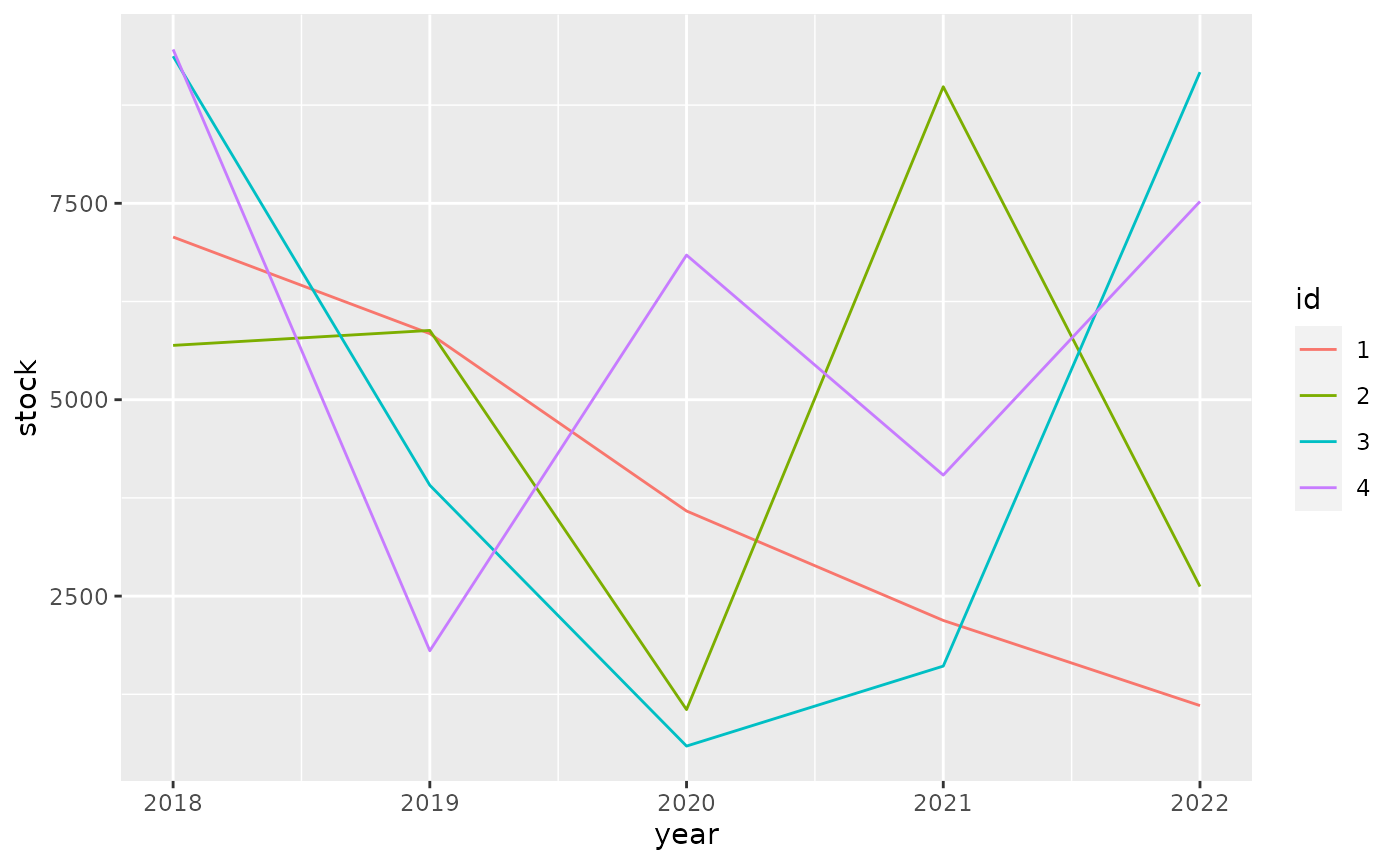
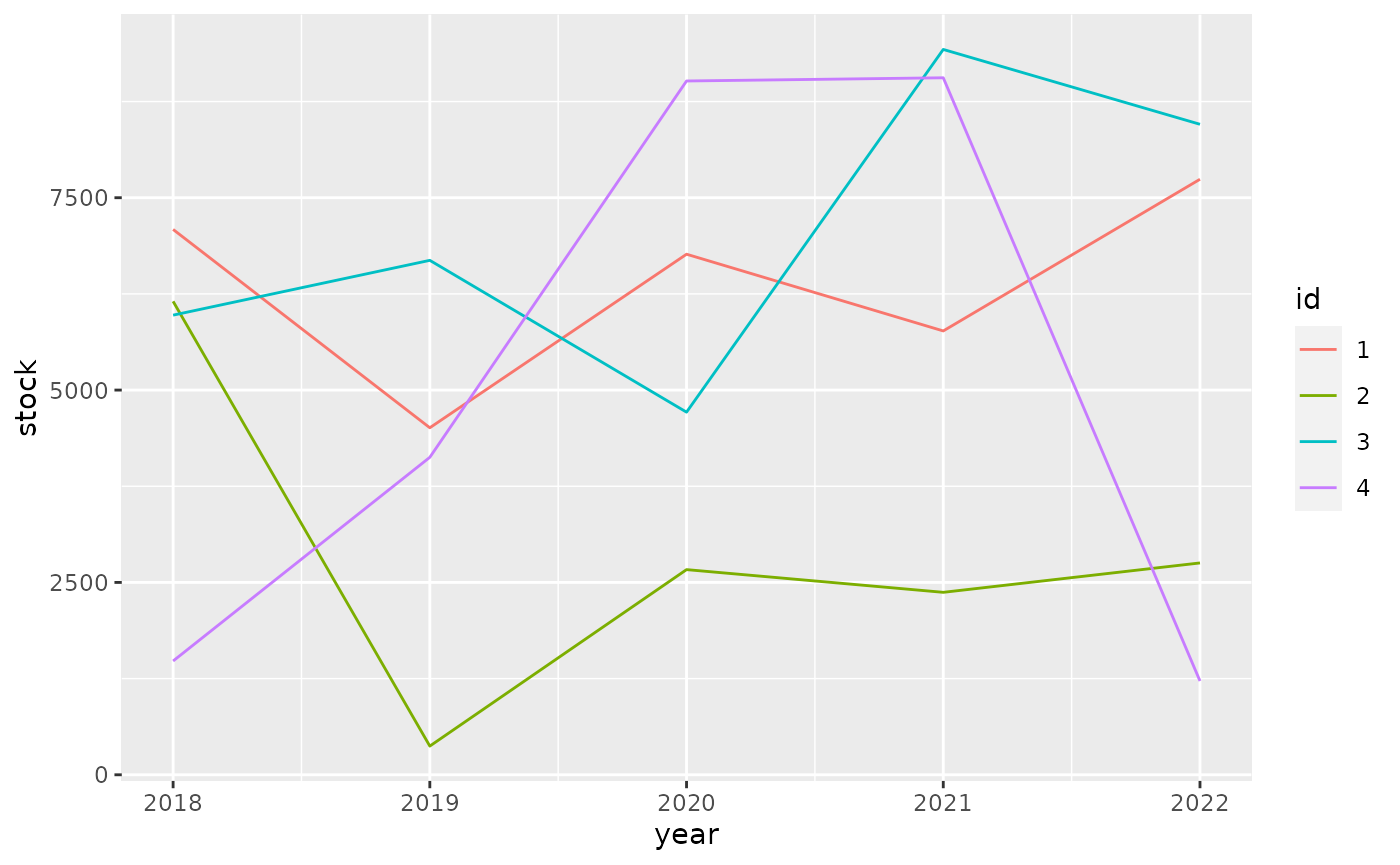
Built site for tibble: 3.1.4@9577fc3

diff --git a/articles/formats.html b/articles/formats.html
@@ -226,10 +226,10 @@
 <span class="co">#&gt; # A tibble: 4 × 6</span>
 <span class="co">#&gt;   id       `2018`    `2019`    `2020`    `2021`    `2022`</span>
 <span class="co">#&gt;   &lt;fct&gt; &lt;dbl:fmt&gt; &lt;dbl:fmt&gt; &lt;dbl:fmt&gt; &lt;dbl:fmt&gt; &lt;dbl:fmt&gt;</span>
-<span class="co">#&gt; 1 1     $7,070.64 $5,841.09 $3,583.34 $2,190.38 $1,106.42</span>
-<span class="co">#&gt; 2 2     $5,691.45 $5,881.78 $1,055.26 $8,983.85 $2,621.45</span>
-<span class="co">#&gt; 3 3     $9,372.90 $3,911.29   $590.95 $1,608.98 $9,169.50</span>
-<span class="co">#&gt; 4 4     $9,458.48 $1,804.02 $6,840.88 $4,040.30 $7,523.51</span></code></pre></div>
+<span class="co">#&gt; 1 1     $7,087.87 $4,510.25 $6,765.71 $5,768.52 $7,739.94</span>
+<span class="co">#&gt; 2 2     $6,153.25   $373.07 $2,666.55 $2,371.38 $2,753.35</span>
+<span class="co">#&gt; 3 3     $5,973.70 $6,686.07 $4,713.03 $9,427.07 $8,454.38</span>
+<span class="co">#&gt; 4 4     $1,478.82 $4,126.36 $9,017.10 $9,058.78 $1,218.67</span></code></pre></div>
 <p>For ggplot2 we need to do <a href="https://github.com/tidyverse/ggplot2/pull/4065" class="external-link">some work</a> to show apply the formatting to the scales.</p>
 <div class="sourceCode" id="cb6"><pre class="downlit sourceCode r">
 <code class="sourceCode R"><span class="kw"><a href="https://rdrr.io/r/base/library.html" class="external-link">library</a></span><span class="op">(</span><span class="va"><a href="https://ggplot2.tidyverse.org" class="external-link">ggplot2</a></span><span class="op">)</span>
@@ -240,10 +240,10 @@
   <span class="fu"><a href="https://ggplot2.tidyverse.org/reference/geom_path.html" class="external-link">geom_line</a></span><span class="op">(</span><span class="op">)</span></code></pre></div>
 <p><img src="formats_files/figure-html/unnamed-chunk-7-1.png" width="700"></p>
 <p>It pays off to specify formatting very early in the process. The diagram below shows the principal stages of data analysis and exploration from “R for data science”.</p>
-<div id="htmlwidget-ab4c1eec27f8ac23197e" style="width:700px;height:432.632880098888px;" class="DiagrammeR html-widget"></div>
-<script type="application/json" data-for="htmlwidget-ab4c1eec27f8ac23197e">{"x":{"diagram":"graph TD\n  Import --> Tidy\n  Tidy --> Transform\n  Transform --> Visualize\n  Visualize --> Communicate\n  Visualize --> Model\n  Model -.-> Transform"},"evals":[],"jsHooks":[]}</script><p>The subsequent diagram adds data formats, communication options, and explicit data formatting. The original r4ds transitions are highlighted in bold. There are two principal options where to apply formatting for results: right before communicating them, or right after importing.</p>
-<div id="htmlwidget-b7396304ce3de2c6209d" style="width:700px;height:432.632880098888px;" class="DiagrammeR html-widget"></div>
-<script type="application/json" data-for="htmlwidget-b7396304ce3de2c6209d">{"x":{"diagram":"graph TD\n  .csv --> Import\n  API --> Import\n  DBI --> Import\n  dbplyr --> Import\n  Import -.-> Format[Format for analysis]\n  Format -.-> Tidy\n\n  subgraph r4ds\n  Import ==> Tidy\n  Tidy ==> Transform\n  Transform ==> Visualize\n  Visualize ==> Model\n  Model -.-> Transform\n  Visualize ==> Communicate\n  end\n\n  Visualize -.-> FormatComm[Format for communication]\n  FormatComm -.-> Communicate\n\n  FormatComm -- Apply formatting early --> Format\n\n  dbplyr -.-> Tidy\n  dbplyr -.-> Transform\n  dbplyr -.-> Visualize\n\n  Communicate --> gt\n  Communicate --> ggplot2\n  Communicate --> DT\n  Communicate --> plotly"},"evals":[],"jsHooks":[]}</script><p>Applying formatting early in the process gives the added benefit of showing the data in a useful format during the “Tidy”, “Transform”, and “Visualize” stages. For this to be useful, we need to ensure that the formatting options applied early:</p>
+<div id="htmlwidget-4f905058b2e2493edf56" style="width:700px;height:432.632880098888px;" class="DiagrammeR html-widget"></div>
+<script type="application/json" data-for="htmlwidget-4f905058b2e2493edf56">{"x":{"diagram":"graph TD\n  Import --> Tidy\n  Tidy --> Transform\n  Transform --> Visualize\n  Visualize --> Communicate\n  Visualize --> Model\n  Model -.-> Transform"},"evals":[],"jsHooks":[]}</script><p>The subsequent diagram adds data formats, communication options, and explicit data formatting. The original r4ds transitions are highlighted in bold. There are two principal options where to apply formatting for results: right before communicating them, or right after importing.</p>
+<div id="htmlwidget-76f9e63eba278ebcfaab" style="width:700px;height:432.632880098888px;" class="DiagrammeR html-widget"></div>
+<script type="application/json" data-for="htmlwidget-76f9e63eba278ebcfaab">{"x":{"diagram":"graph TD\n  .csv --> Import\n  API --> Import\n  DBI --> Import\n  dbplyr --> Import\n  Import -.-> Format[Format for analysis]\n  Format -.-> Tidy\n\n  subgraph r4ds\n  Import ==> Tidy\n  Tidy ==> Transform\n  Transform ==> Visualize\n  Visualize ==> Model\n  Model -.-> Transform\n  Visualize ==> Communicate\n  end\n\n  Visualize -.-> FormatComm[Format for communication]\n  FormatComm -.-> Communicate\n\n  FormatComm -- Apply formatting early --> Format\n\n  dbplyr -.-> Tidy\n  dbplyr -.-> Transform\n  dbplyr -.-> Visualize\n\n  Communicate --> gt\n  Communicate --> ggplot2\n  Communicate --> DT\n  Communicate --> plotly"},"evals":[],"jsHooks":[]}</script><p>Applying formatting early in the process gives the added benefit of showing the data in a useful format during the “Tidy”, “Transform”, and “Visualize” stages. For this to be useful, we need to ensure that the formatting options applied early:</p>
 <ul>
 <li>give a good user experience for analysis
 <ul>

diff --git a/articles/types.html b/articles/types.html
@@ -357,7 +357,7 @@
 #&gt; $ factor        &lt;fct&gt; A
 #&gt; $ ordered       &lt;ord&gt; a
 #&gt; $ Date          &lt;date&gt; 2021-08-07
-#&gt; $ POSIXt        &lt;dttm&gt; 2021-08-07 13:05:03
+#&gt; $ POSIXt        &lt;dttm&gt; 2021-08-07 13:09:38
 #&gt; $ difftime      &lt;drtn&gt; 1 secs
 #&gt; $ hms           &lt;time&gt; 00:00:01
 #&gt; $ integer64     &lt;int64&gt; 10000000000
@@ -393,7 +393,7 @@
 <span class="co">#&gt;             "sym"</span>
 <span class="co">#&gt;         }, typeof(x))</span>
 <span class="co">#&gt; }</span>
-<span class="co">#&gt; &lt;bytecode: 0x55909ece4e00&gt;</span>
+<span class="co">#&gt; &lt;bytecode: 0x55eda9670e00&gt;</span>
 <span class="co">#&gt; &lt;environment: namespace:pillar&gt;</span></code></pre></div>
 </div>
   </div>
